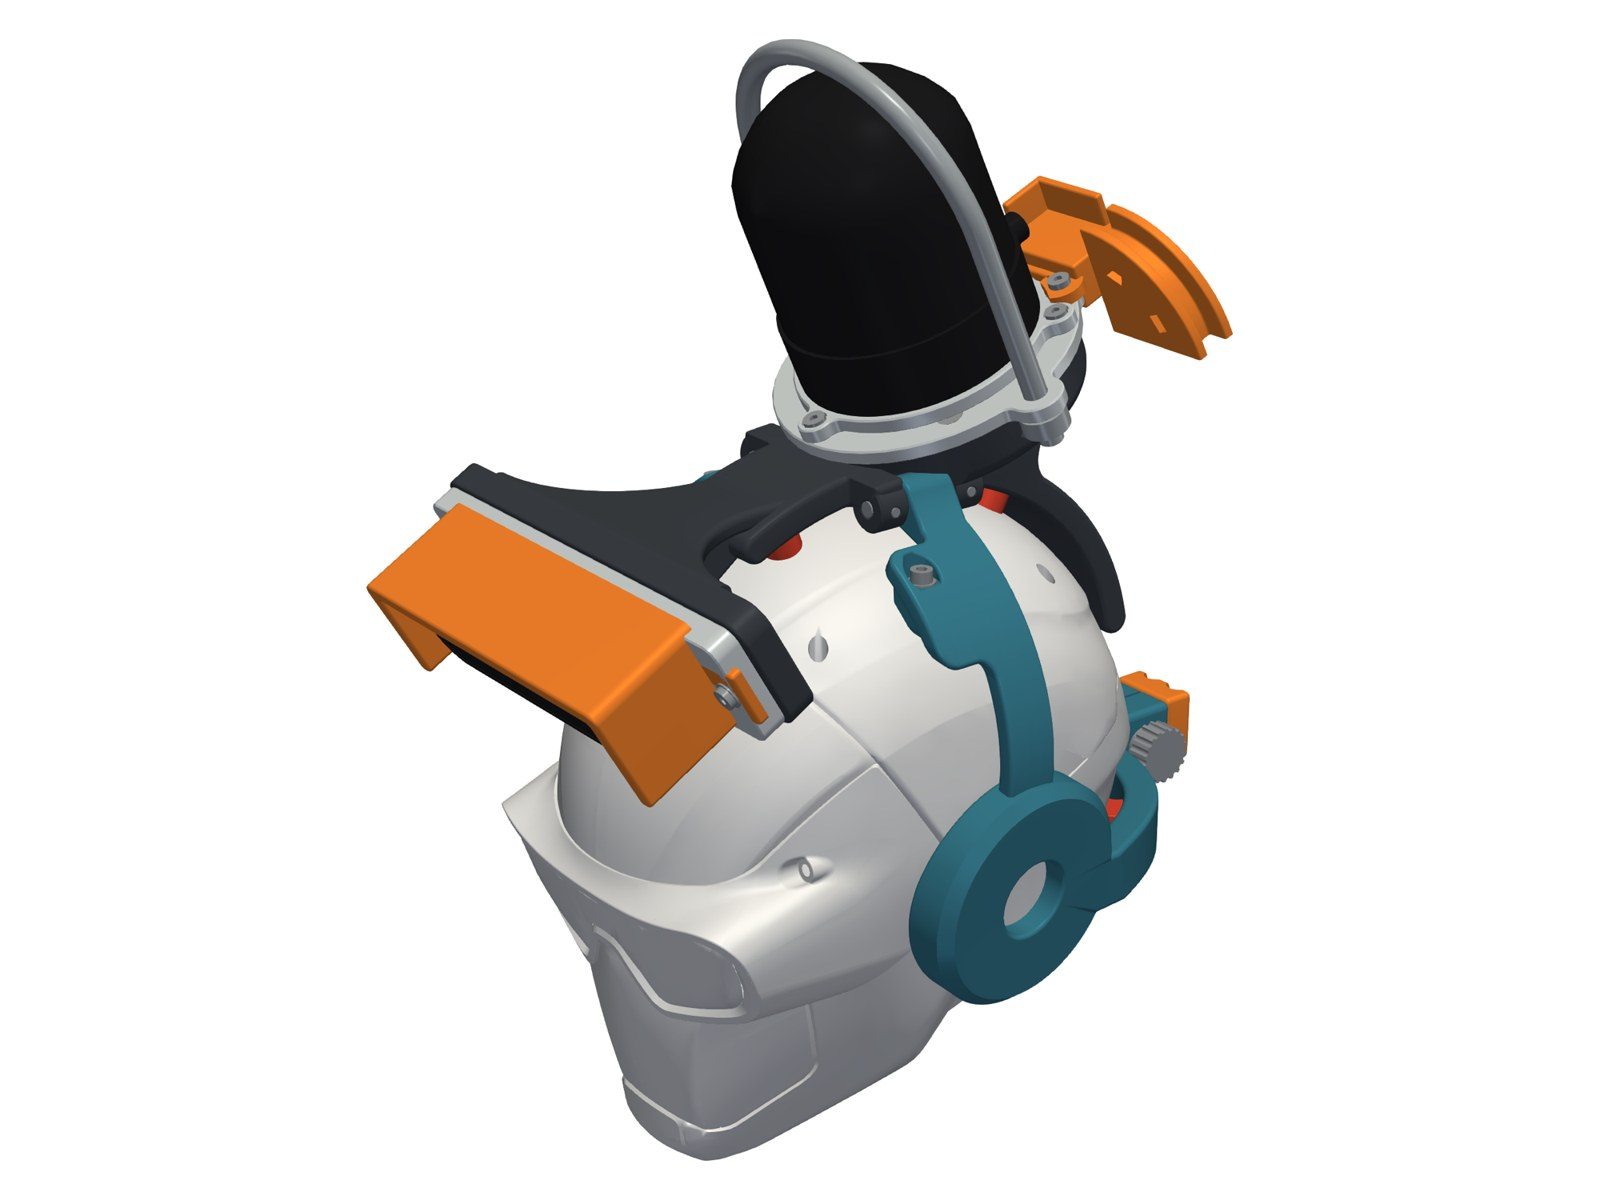
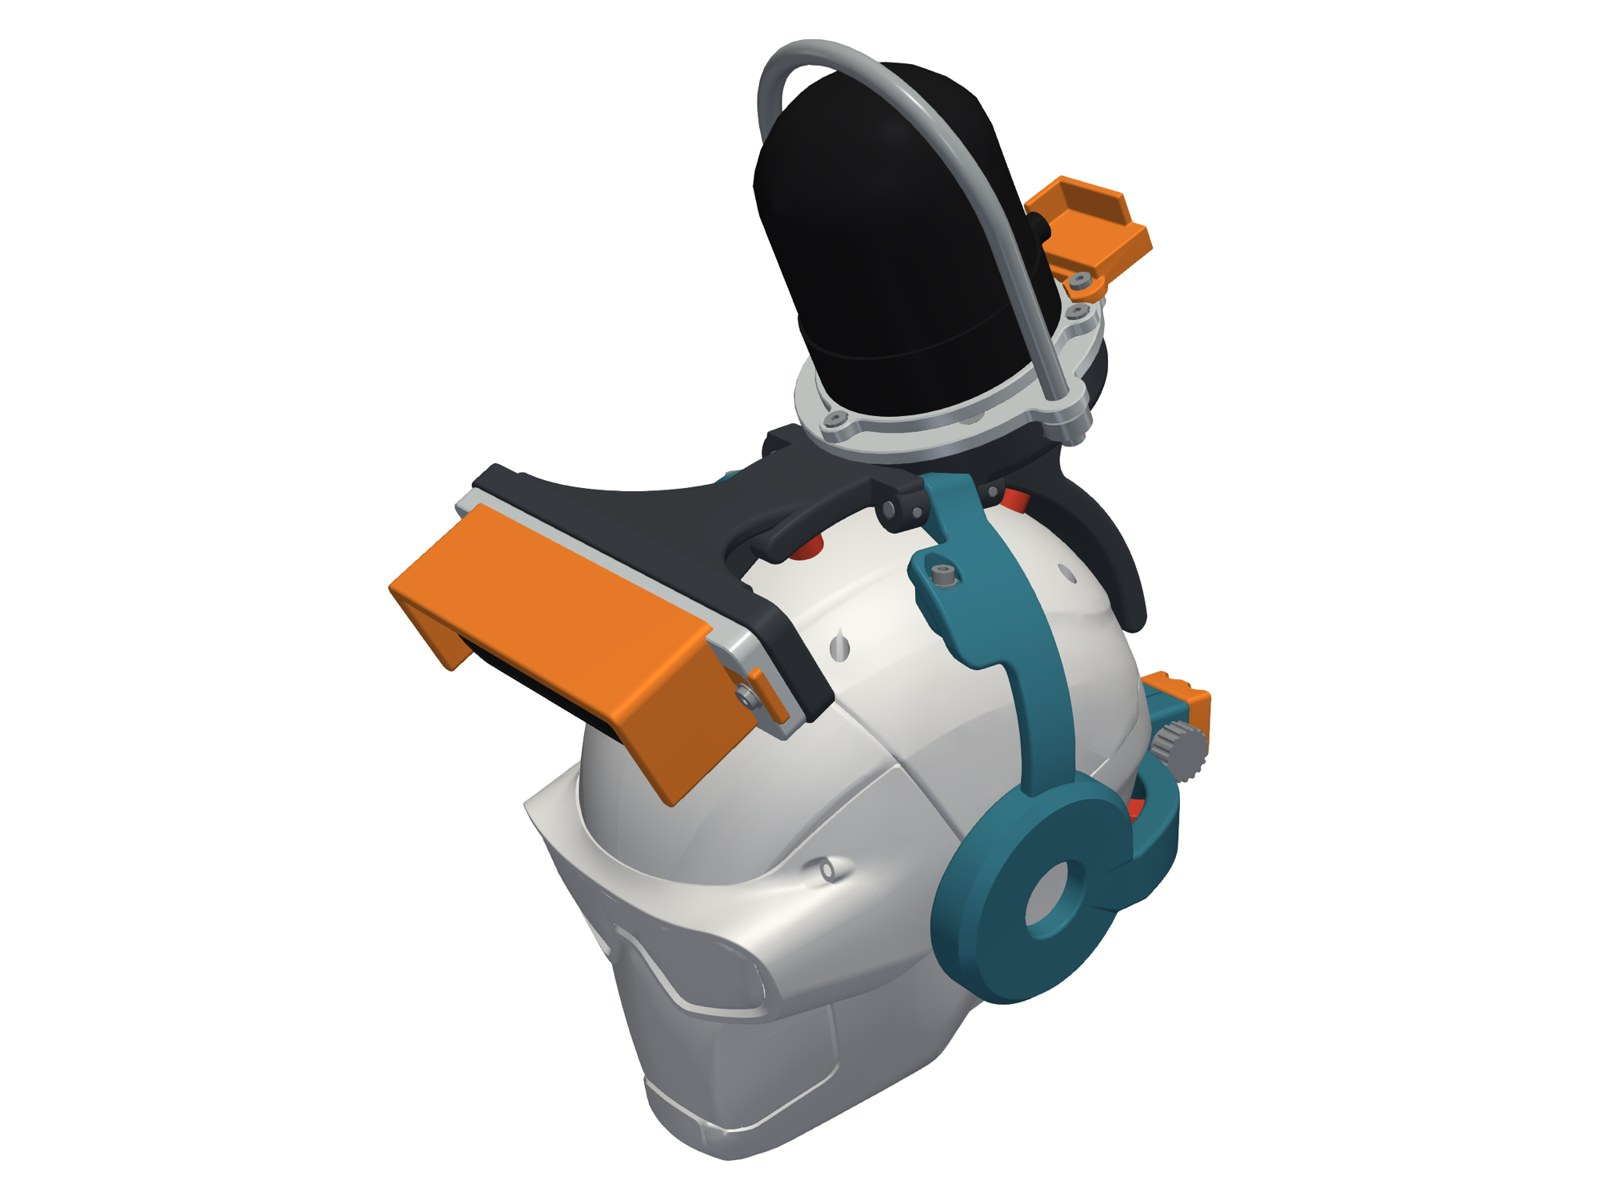
Update section 6's renders to helmet v0.11, with the cables run to the sensors
The assembled and exploded helmet views show v0.11's one-piece P7 cradle and the
labelled P7b clip; the on-robot cable box view runs both head cables from the
lidar's plug and the camera's USB-C port to the box.

Changed region(s): [[0.2188, 0.0308, 0.7812, 0.9867], [0.4062, 0.4008, 0.4375, 0.4317]]

diff --git a/docs/interim-report/sections/06-helmet.md b/docs/interim-report/sections/06-helmet.md
@@ -60,7 +60,7 @@ panels between 3D-printed PETG end caps, and it hooks over the robot's back hand
 frame, again without modifying the robot. In CAD, the head and helmet clear it by at least 14 mm
 over the neck's full range; the box has not yet been built or fitted.
 
-![fig:cable-box | The cable management box (CAD renders of the current design): (a) hung on the R1's back, with the lidar lead (red) and the camera cable (blue) running down from the helmet; (b) assembled, with the acrylic panels drawn clear to show the take-up pulley, hub, spool and splitter inside](../assets/interim/helmet-cable-box.webp)
+![fig:cable-box | The cable management box (CAD renders of the current design): (a) hung on the R1's back, with the lidar lead (red) and the camera cable (blue) running from the sensors, through a clip on the helmet, into the box; (b) assembled, with the acrylic panels drawn clear to show the take-up pulley, hub, spool and splitter inside](../assets/interim/helmet-cable-box.webp)
 
 ![fig:cable-box-exploded | Exploded view of the cable management box (CAD render)](../assets/interim/cable-box-exploded.webp)
 
